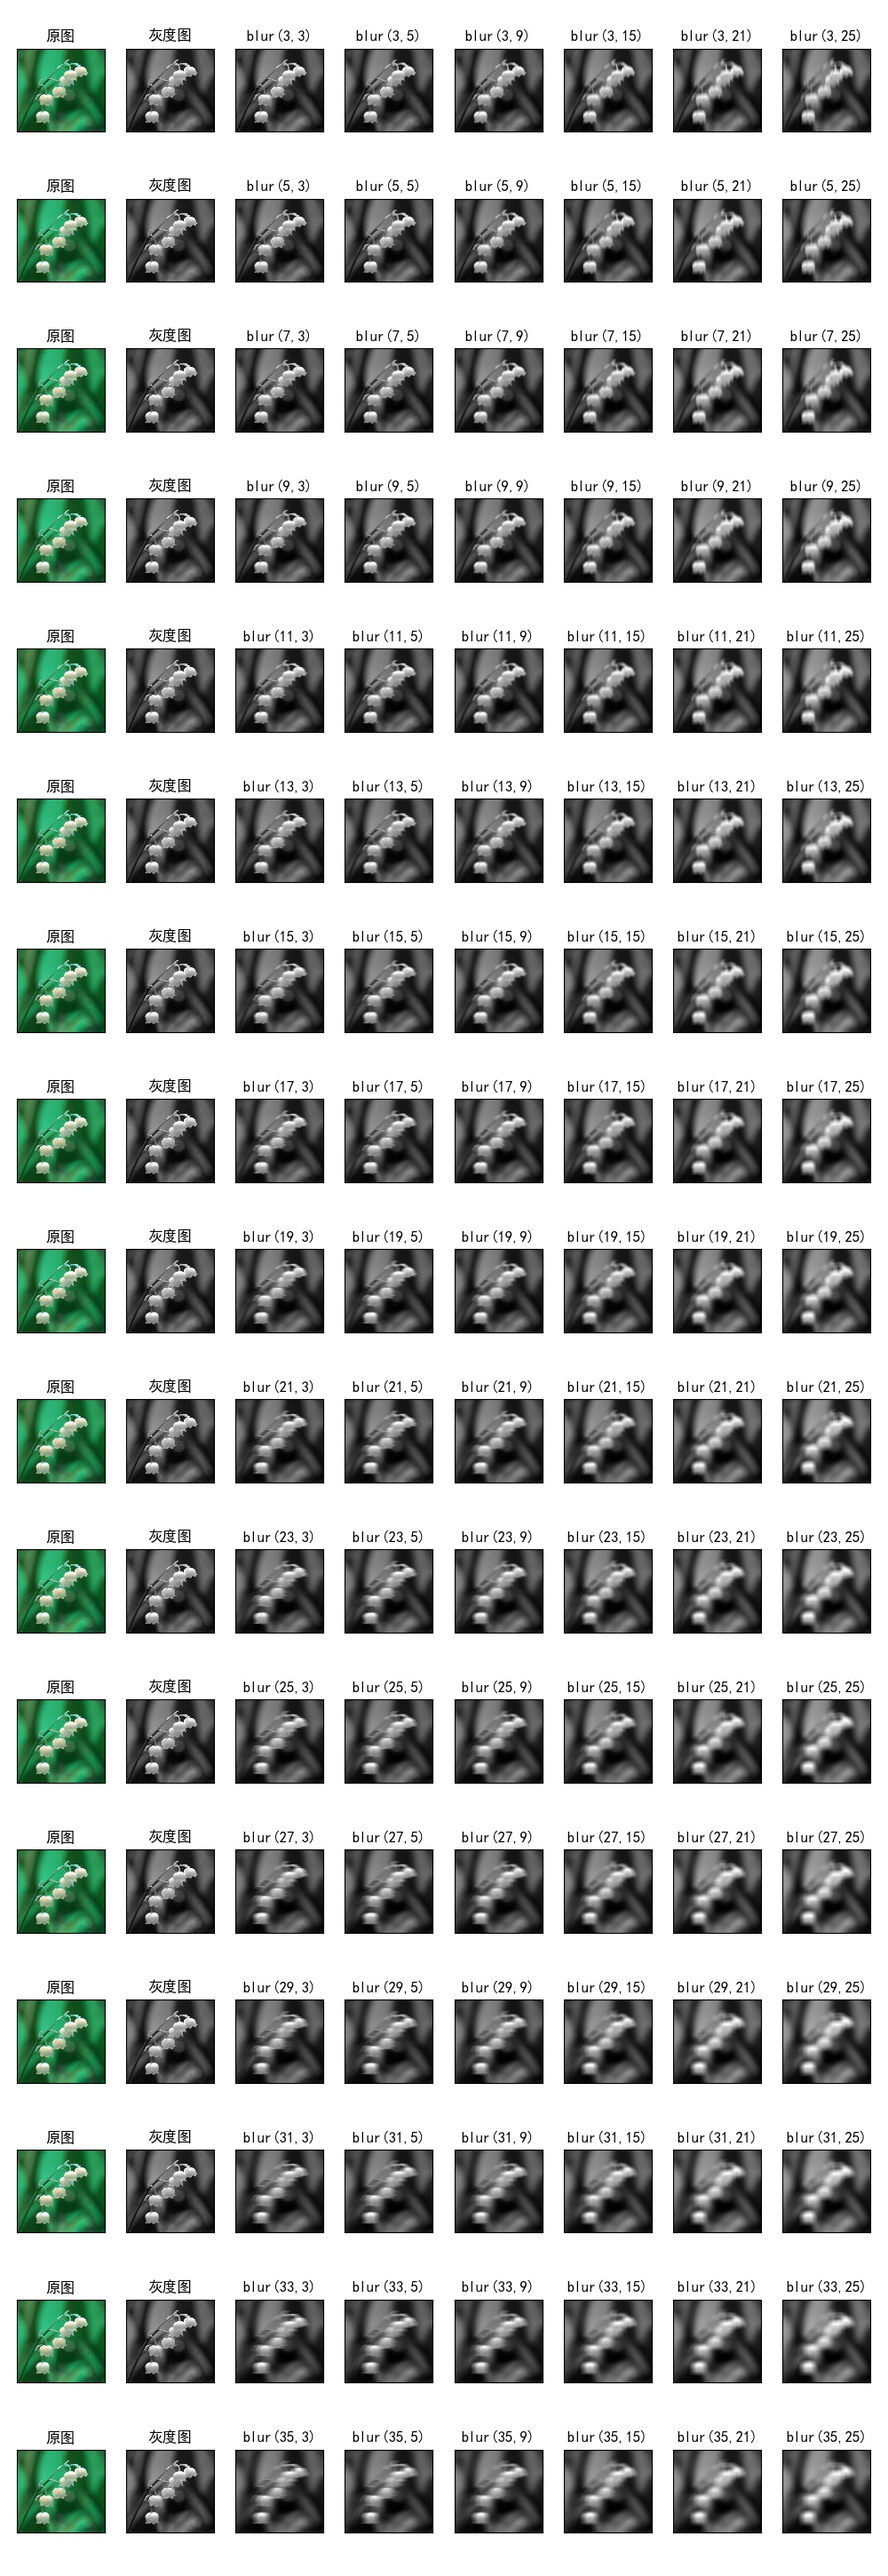
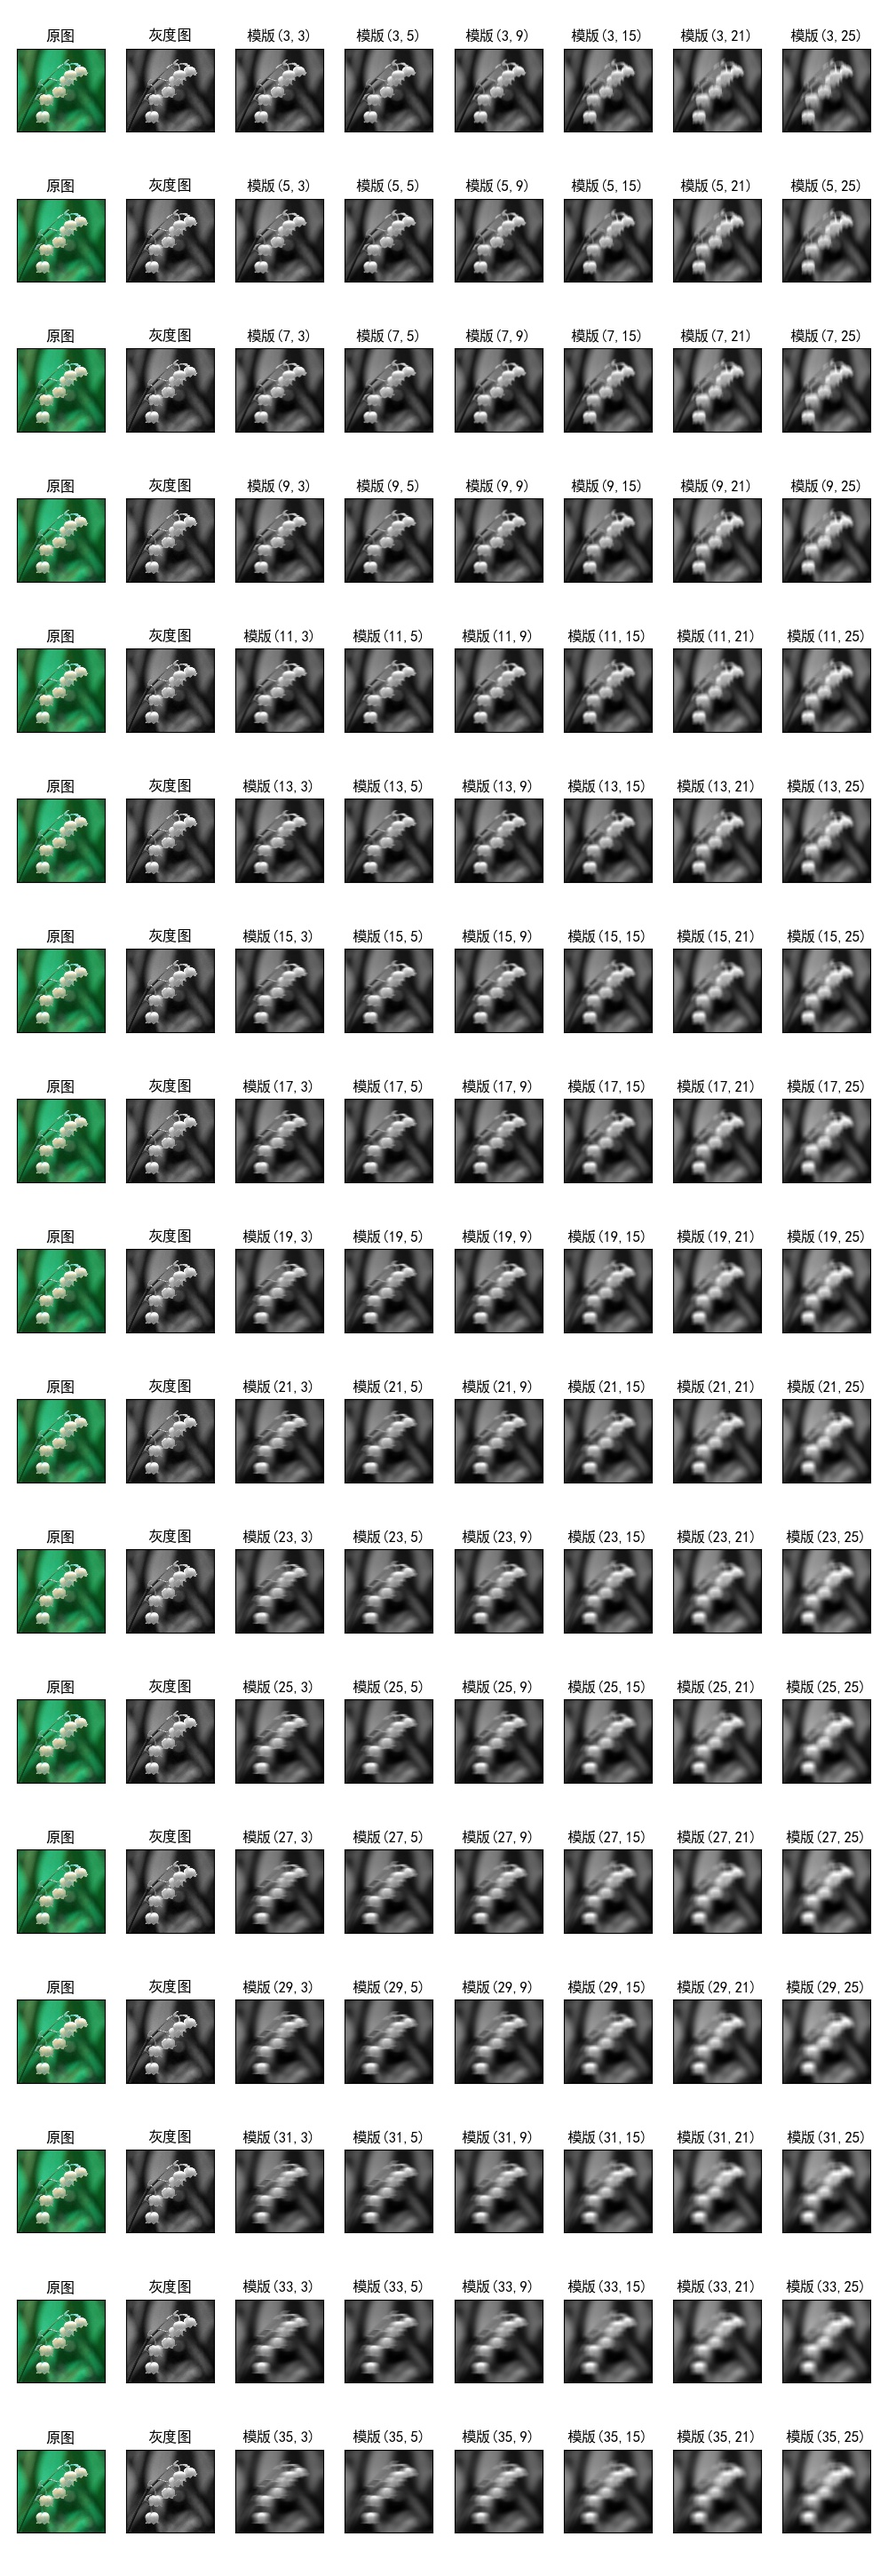
threshold matrix.

diff --git a/cv_img_filter_bilateral.py b/cv_img_filter_bilateral.py
@@ -9,12 +9,15 @@
 对于2D图像可以进行低通或者高通滤波操作，
 低通滤波（LPF）有利于去噪，模糊图像，高通滤波（HPF）有利于找到图像边界。
 
-均值滤波
-而opencv有一个专门的平均滤波模板供使用–归一化卷积模板，
-所有的滤波模板都是使卷积框覆盖区域所有像素点与模板相乘后得到的值作为中心像素的值。
-Opencv中均值模板可以用cv2.blur和cv2.boxFilter,
-模板大小是m*n是可以设置的。如果你不想要前面的1/9,可以使用非归一化的模板cv2.boxFilter。
-模板大小3*5
+# 双边滤波
+# 双边滤波函数为cv2.bilateralFilter()。
+# 该滤波器可以在保证边界清晰的情况下有效的去掉噪声。
+# 它的构造比较复杂，即考虑了图像的空间关系，也考虑图像的灰度关系。
+# 双边滤波同时使用了空间高斯权重和灰度相似性高斯权重，确保了边界不会被模糊掉。
+# cv2.bilateralFilter(img,d,’p1’,’p2’)函数有四个参数需要，
+# d是领域的直径，后面两个参数是空间高斯函数标准差和灰度值相似性高斯函数标准差。
+# 9---滤波领域直径
+# 后面两个数字：空间高斯函数标准差，灰度值相似性标准差
 
 """
 
@@ -28,6 +31,12 @@ img = cv2.imread('./images/cv_flower2.jpg')
 # 灰度转换
 gray = cv2.cvtColor(img, cv2.COLOR_BGR2GRAY)
 
+# 添加点噪声
+for i in range(2000):
+    temp_x = np.random.randint(0, img.shape[0])
+    temp_y = np.random.randint(0, img.shape[1])
+    gray[temp_x][temp_y] = 255
+
 # 转化数值类型
 img1 = np.float32(img)
 
@@ -35,7 +44,7 @@ img1 = np.float32(img)
 x_list = range(3, 36, 2)
 
 # 参数列表
-y_list = [3, 5, 9, 15, 21, 25]
+y_list = [25, 50, 75, 80, 90]
 
 # 多子图绘制
 fig, axes = plt.subplots(len(x_list), len(y_list) + 2, sharey=False, sharex=False)
@@ -54,11 +63,11 @@ for i in range(len(x_list)):
             title = '原图'
         elif j == 1:
             show = gray
-            title = '灰度图'
+            title = '灰度+噪声'
         else:
-            # 均值滤波
-            show = cv2.blur(gray, (x_list[i], y_list[j - 2]))
-            title = "模版(%d,%d)" % (x_list[i], y_list[j - 2])
+            # 双边滤波
+            show = cv2.bilateralFilter(gray, x_list[i], y_list[j - 2], y_list[j - 2])
+            title = "径%d-标%d" % (x_list[i], y_list[j - 2])
 
         ax = axes[i][j]
         # 显示图片
@@ -72,6 +81,6 @@ for i in range(len(x_list)):
 # 调整每隔子图之间的距离
 plt.tight_layout()
 # 保存图片
-plt.savefig('./images/cv_img_blur_result.jpg')
+plt.savefig('./images/cv_img_blur_bilateral_result.jpg')
 # 显示绘制后的图片
 plt.show()

diff --git a/cv_img_blur_median.py b/cv_img_blur_median.py
@@ -9,12 +9,11 @@
 对于2D图像可以进行低通或者高通滤波操作，
 低通滤波（LPF）有利于去噪，模糊图像，高通滤波（HPF）有利于找到图像边界。
 
-均值滤波
-而opencv有一个专门的平均滤波模板供使用–归一化卷积模板，
-所有的滤波模板都是使卷积框覆盖区域所有像素点与模板相乘后得到的值作为中心像素的值。
-Opencv中均值模板可以用cv2.blur和cv2.boxFilter,
-模板大小是m*n是可以设置的。如果你不想要前面的1/9,可以使用非归一化的模板cv2.boxFilter。
-模板大小3*5
+中值滤波模板
+中值滤波模板就是用卷积框中像素的中值代替中心值，达到去噪声的目的。
+这个模板一般用于去除椒盐噪声。
+前面的滤波器都是用计算得到的一个新值来取代中心像素的值，
+而中值滤波是用中心像素周围（也可以使他本身）的值来取代他，卷积核的大小也是个奇数。
 
 """
 
@@ -28,6 +27,12 @@ img = cv2.imread('./images/cv_flower2.jpg')
 # 灰度转换
 gray = cv2.cvtColor(img, cv2.COLOR_BGR2GRAY)
 
+# 添加点噪声
+for i in range(2000):
+    temp_x = np.random.randint(0, img.shape[0])
+    temp_y = np.random.randint(0, img.shape[1])
+    gray[temp_x][temp_y] = 255
+
 # 转化数值类型
 img1 = np.float32(img)
 
@@ -35,12 +40,12 @@ img1 = np.float32(img)
 x_list = range(3, 36, 2)
 
 # 参数列表
-y_list = [3, 5, 9, 15, 21, 25]
+y_list = [0]
 
 # 多子图绘制
 fig, axes = plt.subplots(len(x_list), len(y_list) + 2, sharey=False, sharex=False)
 # 设置图片尺寸
-fig.set_size_inches(10, len(x_list) * 12 // 7)
+fig.set_size_inches(5, len(x_list) * 12 // 7)
 # 总标题
 fig.suptitle('')
 # 设置标题(中文字体)
@@ -54,11 +59,11 @@ for i in range(len(x_list)):
             title = '原图'
         elif j == 1:
             show = gray
-            title = '灰度图'
+            title = '灰度+噪声'
         else:
-            # 均值滤波
-            show = cv2.blur(gray, (x_list[i], y_list[j - 2]))
-            title = "模版(%d,%d)" % (x_list[i], y_list[j - 2])
+            # 中值滤波
+            show = cv2.medianBlur(gray, x_list[i])
+            title = "中值(%d)" % (x_list[i])
 
         ax = axes[i][j]
         # 显示图片
@@ -72,6 +77,6 @@ for i in range(len(x_list)):
 # 调整每隔子图之间的距离
 plt.tight_layout()
 # 保存图片
-plt.savefig('./images/cv_img_blur_result.jpg')
+plt.savefig('./images/cv_img_blur_median_result.jpg')
 # 显示绘制后的图片
 plt.show()

diff --git a/cv_img_blur_gaussian.py b/cv_img_blur_gaussian.py
@@ -9,12 +9,14 @@
 对于2D图像可以进行低通或者高通滤波操作，
 低通滤波（LPF）有利于去噪，模糊图像，高通滤波（HPF）有利于找到图像边界。
 
-均值滤波
-而opencv有一个专门的平均滤波模板供使用–归一化卷积模板，
-所有的滤波模板都是使卷积框覆盖区域所有像素点与模板相乘后得到的值作为中心像素的值。
-Opencv中均值模板可以用cv2.blur和cv2.boxFilter,
-模板大小是m*n是可以设置的。如果你不想要前面的1/9,可以使用非归一化的模板cv2.boxFilter。
-模板大小3*5
+# 高斯模糊模板
+# 现在把卷积模板中的值换一下，不是全1了，换成一组符合高斯分布的数值放在模板里面，
+# 比如这时中间的数值最大，往两边走越来越小，构造一个小的高斯包。
+# 实现的函数为cv2.GaussianBlur()。
+# 对于高斯模板，我们需要制定的是高斯核的高和宽（奇数），
+# 沿x与y方向的标准差(如果只给x，y=x，如果都给0，那么函数会自己计算)。
+# 高斯核可以有效的出去图像的高斯噪声。
+# 当然也可以自己构造高斯核，相关函数：cv2.GaussianKernel().
 
 """
 
@@ -27,6 +29,12 @@ img = cv2.imread('./images/cv_flower2.jpg')
 
 # 灰度转换
 gray = cv2.cvtColor(img, cv2.COLOR_BGR2GRAY)
+
+# 添加点噪声
+for i in range(2000):
+    temp_x = np.random.randint(0, img.shape[0])
+    temp_y = np.random.randint(0, img.shape[1])
+    gray[temp_x][temp_y] = 255
 
 # 转化数值类型
 img1 = np.float32(img)
@@ -54,10 +62,10 @@ for i in range(len(x_list)):
             title = '原图'
         elif j == 1:
             show = gray
-            title = '灰度图'
+            title = '灰度+噪声'
         else:
-            # 均值滤波
-            show = cv2.blur(gray, (x_list[i], y_list[j - 2]))
+            # 高斯模糊
+            show = cv2.GaussianBlur(gray, (x_list[i], y_list[j - 2]), 0)
             title = "模版(%d,%d)" % (x_list[i], y_list[j - 2])
 
         ax = axes[i][j]
@@ -72,6 +80,6 @@ for i in range(len(x_list)):
 # 调整每隔子图之间的距离
 plt.tight_layout()
 # 保存图片
-plt.savefig('./images/cv_img_blur_result.jpg')
+plt.savefig('./images/cv_img_blur_gaussian_result.jpg')
 # 显示绘制后的图片
 plt.show()

diff --git a/cv_img_threshold.py b/cv_img_threshold.py
@@ -53,7 +53,7 @@ for i in range(len(thresh_list)):
             title = '原图'
         elif j == 1:
             show = gray
-            title = '灰度图'
+            title = '灰度+噪声'
         else:
             param = param_list[j - 2]
             # 简单阈值

diff --git a/cv_img_number1.py b/cv_img_number1.py
@@ -255,5 +255,5 @@ for j in range(len(boxes)):
         cv2.imshow("img", img)
         cv2.waitKey(30)
 
-print("\n生成的数独\n")
+cv2.imwrite('./images/cv_img_number1_result.jpg', img)
 print(soduko)

diff --git a/RM_CV.md b/RM_CV.md
@@ -2,11 +2,11 @@
 
 
 ## [cv_img_threshold.py](cv_img_threshold.py)
-### 简单阈值，阈值在10～250间变化，五种参数的对比效果。
+### 简单阈值cv2.threshold，阈值在10～250间变化，五种参数的对比效果。
 ![Image text](images/cv_img_threshold_result.jpg)
 
 ## [cv_img_threshold_adpt.py](cv_img_threshold_adpt.py)
-### 自适应阈值变化，块大小在5～126间变化，四种参数的对比效果。
+### 自适应阈值cv2.adaptiveThreshold，块大小在5～126间变化，四种参数的对比效果。
 ![Image text](images/cv_img_threshold_adpt_result.jpg)
 
 ## [cv_img_filter2d.py](cv_img_filter2d.py)
@@ -16,6 +16,18 @@
 ## [cv_img_blur.py](cv_img_blur.py)
 ### 均值滤波cv2.blur
 ![Image text](images/cv_img_blur_result.jpg)
+
+## [cv_img_blur_gaussian.py](cv_img_blur_gaussian.py)
+### 高斯模糊滤波cv2.GaussianBlur
+![Image text](images/cv_img_blur_gaussian_result.jpg)
+
+## [cv_img_blur_median.py](cv_img_blur_median.py)
+### 中值滤波cv2.medianBlur
+![Image text](images/cv_img_blur_median_result.jpg)
+
+## [cv_img_blur_bilateral.py](cv_img_blur_bilateral.py)
+### 双边滤波cv2.bilateralFilter
+![Image text](images/cv_img_blur_bilateral_result.jpg)
 
 ## [cv_img_number1.py](cv_img_number1.py)
 ### KNN数字图片训练识别(印刷体)
